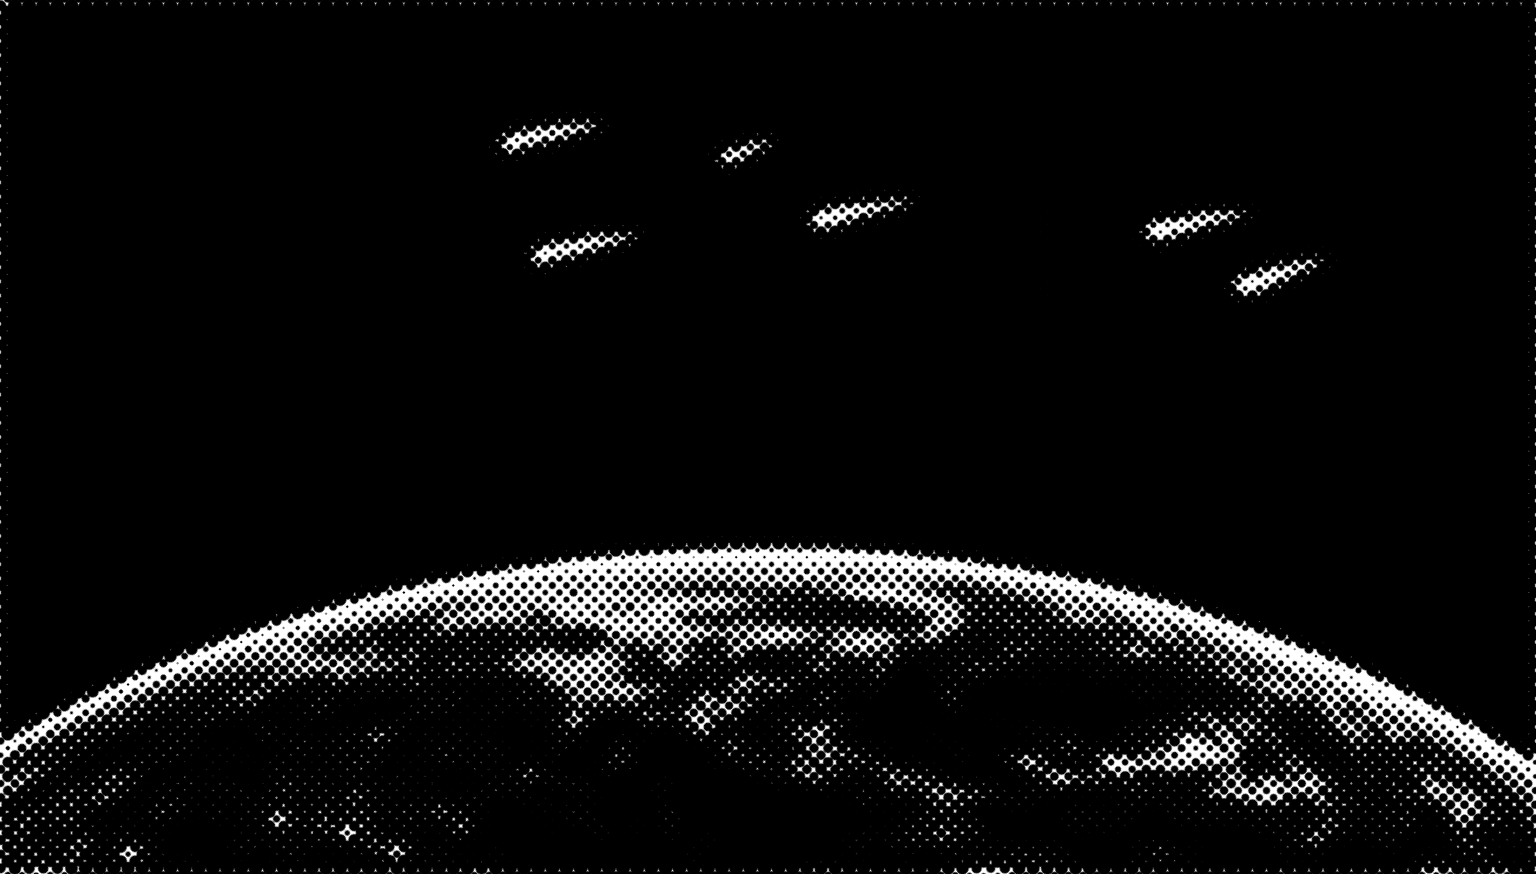
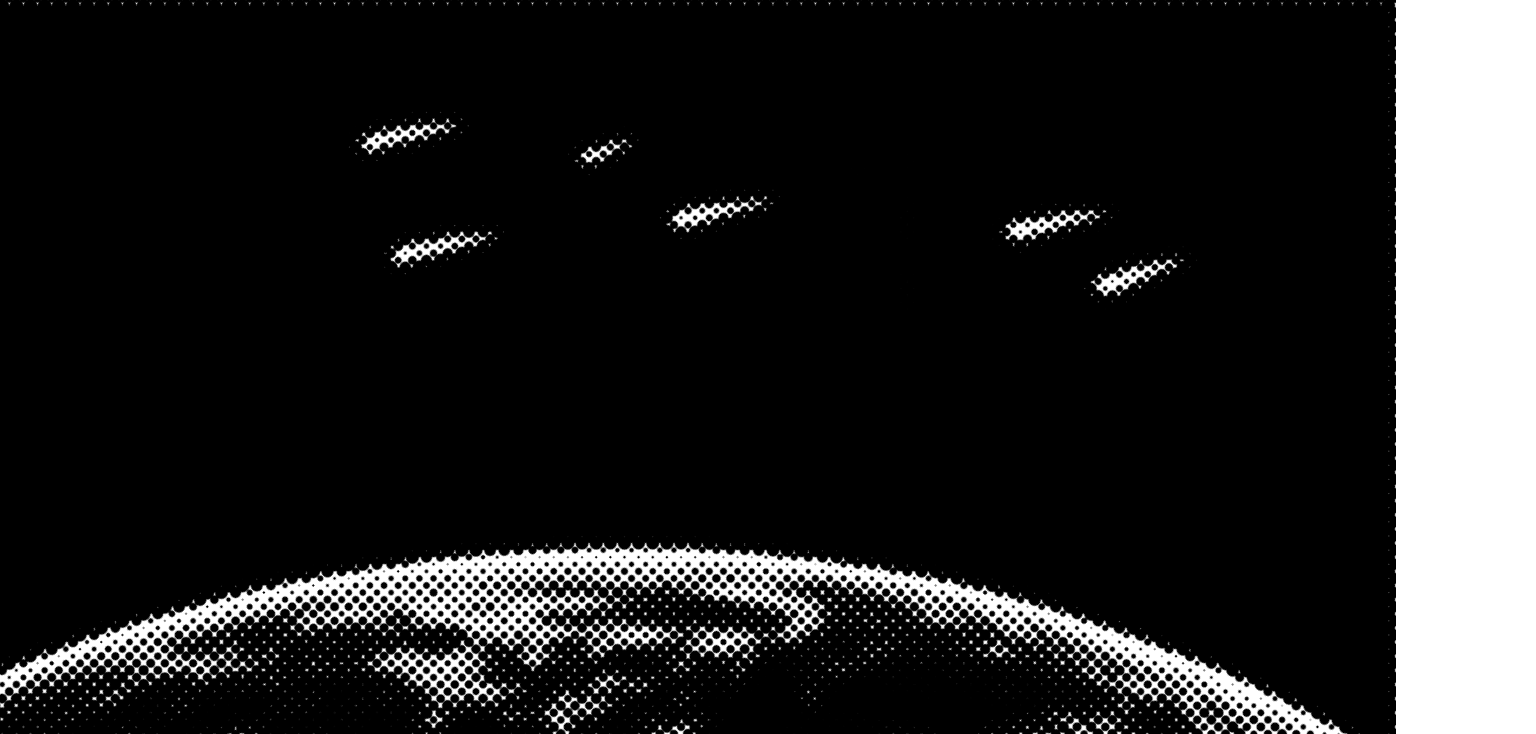
fix: hide top-edge dot artifacts on transmission hero
Two changes that together kill the faint dotted line that was visible
along the top of the 'An agentic company' hero:

- Crop ~140px off the top of hello-hero.png (now 1536×734, a tighter
  cinematic ratio).
- Extend the bottom-fade mask on .tx-post__hero into a top-fade too:
  any residual edge artifacts are gracefully hidden by the gradient
  instead of being chased pixel by pixel.

diff --git a/src/styles/transmissions.css b/src/styles/transmissions.css
@@ -183,10 +183,10 @@
   max-width: 1200px;
   -webkit-mask-image:
     linear-gradient(to right, transparent 0%, black 12%, black 88%, transparent 100%),
-    linear-gradient(to bottom, black 60%, transparent 100%);
+    linear-gradient(to bottom, transparent 0%, black 8%, black 60%, transparent 100%);
   mask-image:
     linear-gradient(to right, transparent 0%, black 12%, black 88%, transparent 100%),
-    linear-gradient(to bottom, black 60%, transparent 100%);
+    linear-gradient(to bottom, transparent 0%, black 8%, black 60%, transparent 100%);
   -webkit-mask-composite: source-in;
   mask-composite: intersect;
 }